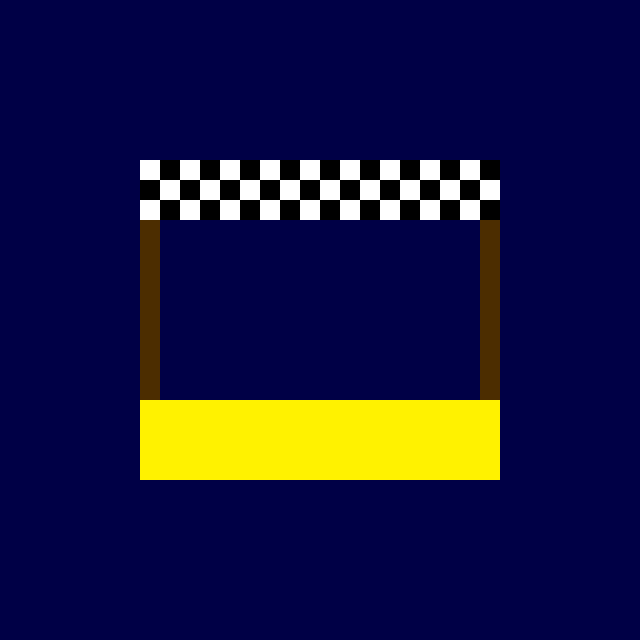
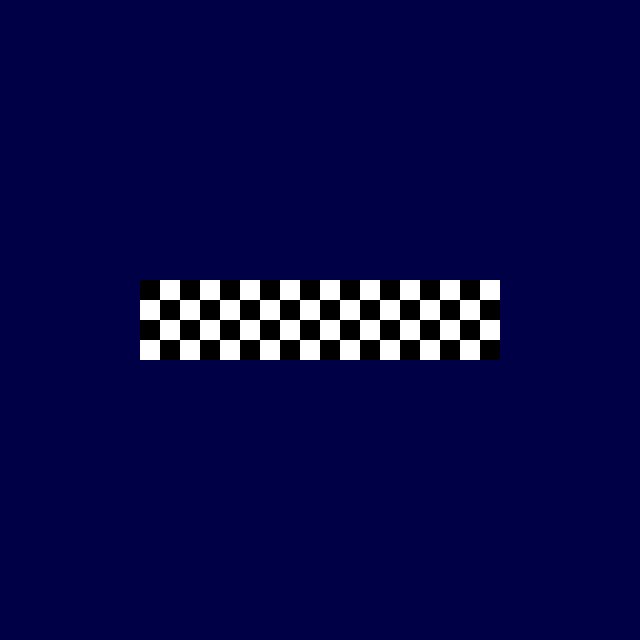
looks better

Changed region(s): [[0.2188, 0.25, 0.7812, 0.75]]

diff --git a/main-flip.py b/main-flip.py
@@ -31,7 +31,7 @@ finish = pygame.image.load("end.png")
 #fonts or something idk
 font = pygame.font.SysFont("Verdana", 60)
 font_small = pygame.font.SysFont("Verdana", 20)
-game_over = font.render("Game Over", True, BLACK)
+game_over = font.render("You win!", True, BLACK)
 
 DISPLAYSURF = pygame.display.set_mode((1470,600))
 DISPLAYSURF.fill(NAVY)
@@ -65,12 +65,13 @@ class Player(pygame.sprite.Sprite):
     def move(self):
         pressed_keys = pygame.key.get_pressed()
         if pressed_keys[K_UP] or pressed_keys[K_w]:
-            self.rect.update(
-                self.rect.left,
-                150,
-                self.rect.width,
-                self.rect.height
-            )
+            if self.rect.x > 370:
+                self.rect.update(
+                    self.rect.left,
+                    150,
+                    self.rect.width,
+                    self.rect.height
+                )
         if pressed_keys[K_DOWN] or pressed_keys[K_s]:
             self.rect.update(
                 self.rect.left,
@@ -103,8 +104,9 @@ all_sprites.add(E1)
 #Adding a new User event 
 INC_SPEED = pygame.USEREVENT + 1
 pygame.time.set_timer(INC_SPEED, 1000)
- 
- 
+    
+P1.set_position(100,300)
+
 while True:     
     for event in pygame.event.get():
     #     if event.type == INC_SPEED:
@@ -113,33 +115,31 @@ while True:
             pygame.quit()
             sys.exit()
 
-    E1.set_position(600, 400)
+    E1.set_position(600, 410)
 
-    DISPLAYSURF.blit(background, (400,0))
     DISPLAYSURF.blit(start, (-120,10))
-    DISPLAYSURF.blit(finish, (960, -47))
+    DISPLAYSURF.blit(finish, (960, 0))
+    DISPLAYSURF.blit(background, (420,0))
     # scores = font_small.render(str(SCORE), True, BLACK)
     # DISPLAYSURF.blit(scores, (10,10))
+
+###########OH AND MAYBE THERE IS A WALL THINGY THAT FLIPS BACK ANF FORTHS!! LIKE< IT PILSES AN THE N SWITHCHES@!! KINDA LIKE THW T)ONE STRIPPE LED GSAME THING IN THE ECPLORITORIAM!!!!!!
 
 
     for entity in all_sprites:
         DISPLAYSURF.blit(entity.image, (entity.rect))
         entity.move()
 
-    # if P1.rect < 1000:
-    #     P1.set_position(1000, 1000)
+    # if P1.rect.x > 1000:
+    #     P1.set_position(1111, 300) 
+
+    if P1.rect.x > 1000:
+        P1.set_position(1111, 300) 
 
     #To be run if collision occurs between Player and Enemy
     if pygame.sprite.spritecollideany(P1, enemies):
-        #   time.sleep(0.5)
           P1.set_position(300, 300)
            
-        #   pygame.display.update()
-        #   for entity in all_sprites:
-        #         entity.kill() 
-        #   time.sleep(2)
-        #   pygame.quit()
-        #   sys.exit()  
-         
+
     pygame.display.update()
     FramePerSec.tick(FPS)
